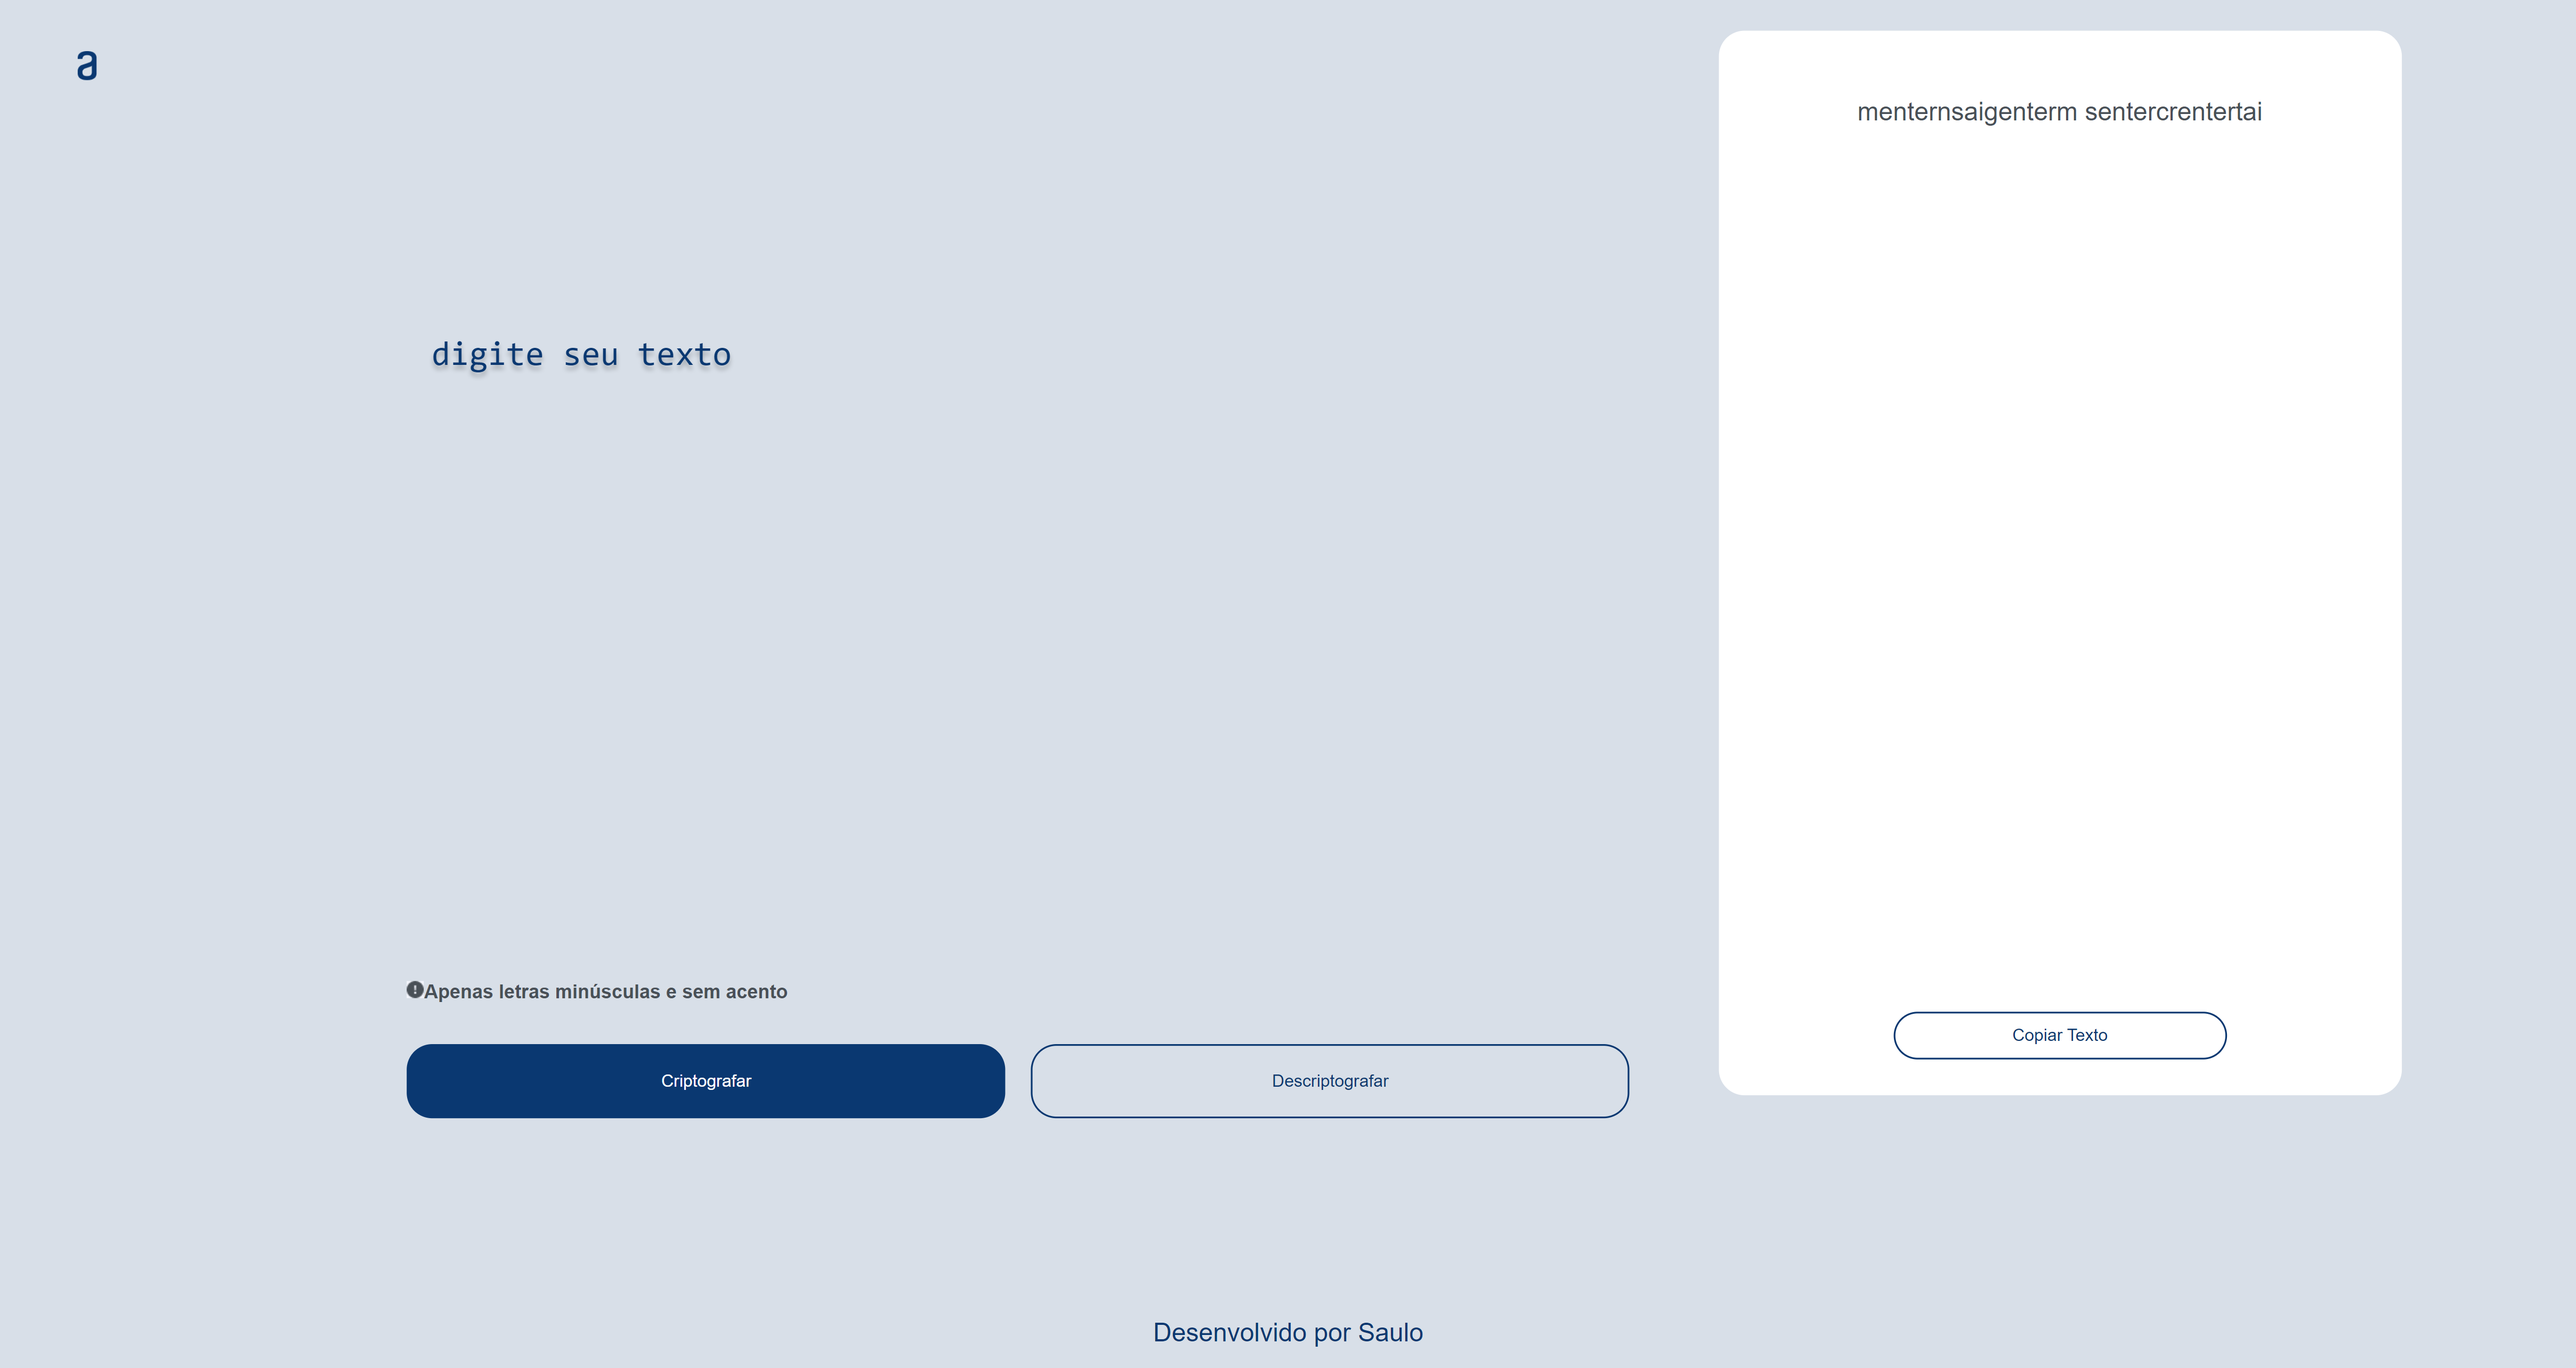
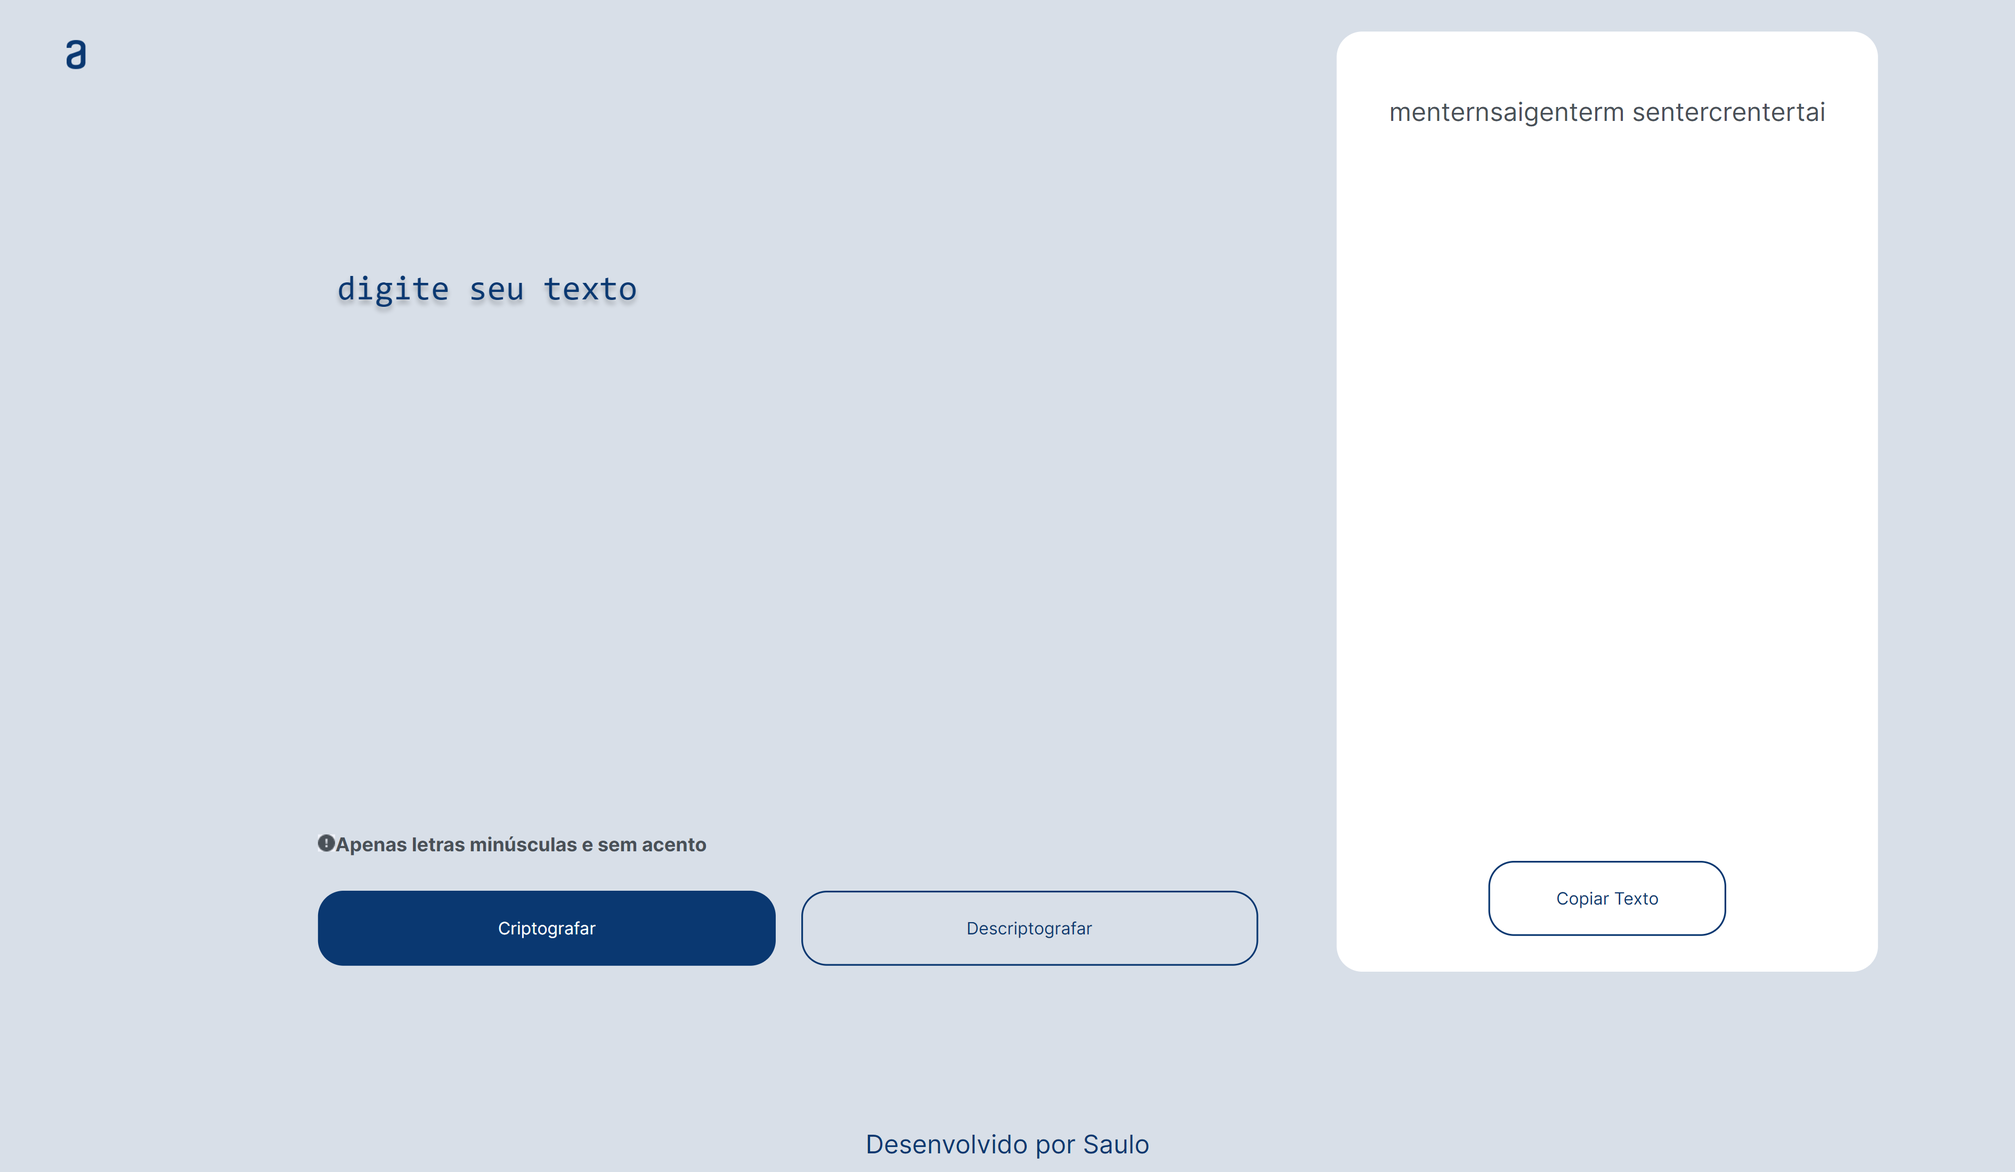
Mudando imagem final

diff --git a/style.css b/style.css
@@ -148,7 +148,7 @@ main{
     font-style: normal;
     font-weight: 400;
     line-height: 150%;
-    height: 80%;
+    height: 70%;
 }
 .imagem{
     height: 70%;
